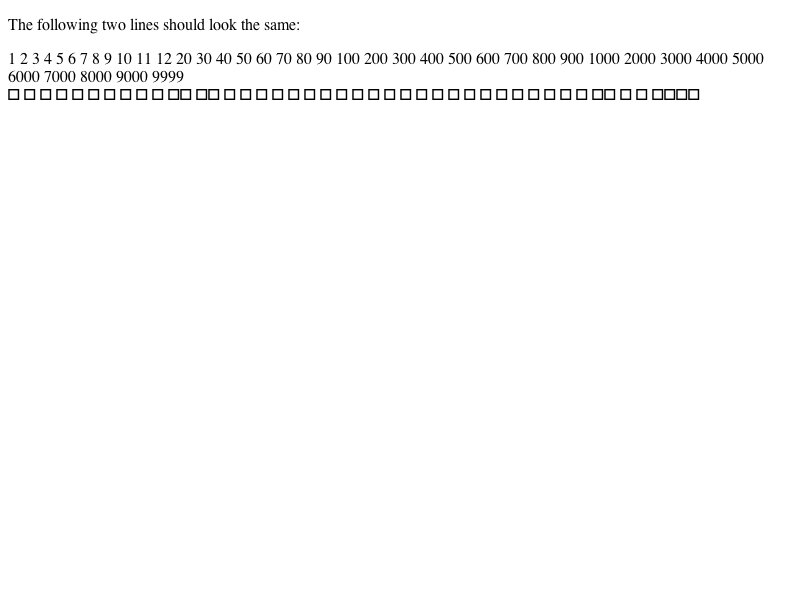
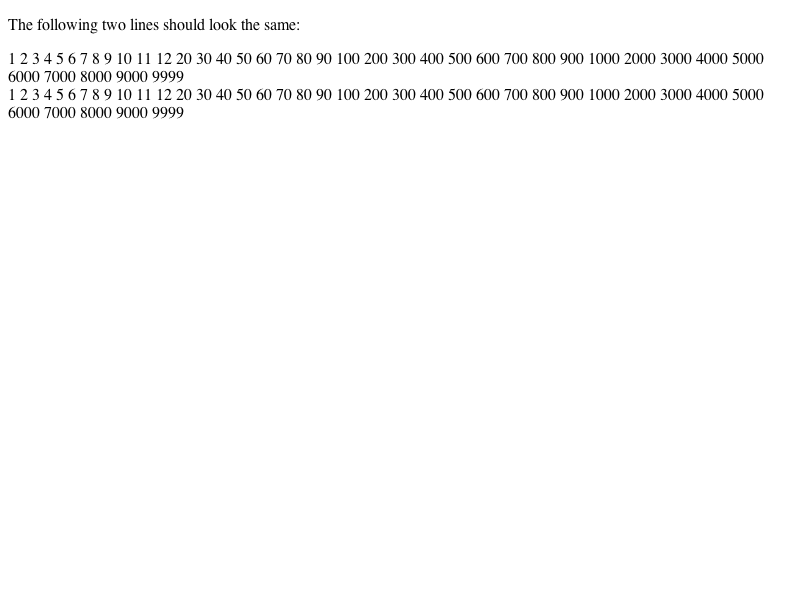
Reviewed by Geoff.
Changing these counters tests because they fail on some people's
        machines. They fail for people who have the Armenian glyphs the
        tests were looking for in the "expected" line. There is no point in
        testing that anyway, since we do not currently support Armenian in
        counters or in list markers.

        * fast/css/counters/counter10-expected.checksum:
        * fast/css/counters/counter10-expected.png:
        * fast/css/counters/counter10-expected.txt:
        * fast/css/counters/counter10.html:
        * fast/css/counters/counters10-expected.checksum:
        * fast/css/counters/counters10-expected.png:
        * fast/css/counters/counters10-expected.txt:
        * fast/css/counters/counters10.html:

Identifier: 14449@main
git-svn-id: https://svn.webkit.org/repository/webkit/trunk@17182 268f45cc-cd09-0410-ab3c-d52691b4dbfc

Changed region(s): [[0.0, 0.15, 0.9688, 0.21]]

diff --git a/LayoutTests/fast/css/counters/counters10.html b/LayoutTests/fast/css/counters/counters10.html
@@ -10,7 +10,7 @@
 
   body, #test span:first-child { counter-reset: c; }
   p, #test span { counter-increment: c; }
-  #test span:before { content: counters(c, ".", armenian); }
+  #test span:before { content: counters(c, "."); }
 
   </style>
  </head>
@@ -60,46 +60,46 @@
    <span style="counter-reset: c 9998"></span>
  </div>
 
- <div>
-   &#x531;.&#x531;
-   &#x531;.&#x532;
-   &#x531;.&#x533;
-   &#x531;.&#x534;
-   &#x531;.&#x535;
-   &#x531;.&#x536;
-   &#x531;.&#x537;
-   &#x531;.&#x538;
-   &#x531;.&#x539;
-   &#x531;.&#x53A;
-   &#x531;.&#x53A;&#x531;
-   &#x531;.&#x53A;&#x532;
-   &#x531;.&#x53B;
-   &#x531;.&#x53C;
-   &#x531;.&#x53D;
-   &#x531;.&#x53E;
-   &#x531;.&#x53F;
-   &#x531;.&#x540;
-   &#x531;.&#x541;
-   &#x531;.&#x542;
-   &#x531;.&#x543;
-   &#x531;.&#x544;
-   &#x531;.&#x545;
-   &#x531;.&#x546;
-   &#x531;.&#x547;
-   &#x531;.&#x548;
-   &#x531;.&#x549;
-   &#x531;.&#x54A;
-   &#x531;.&#x54B;
-   &#x531;.&#x54C;
-   &#x531;.&#x54D;
-   &#x531;.&#x54E;
-   &#x531;.&#x54F;
-   &#x531;.&#x550;
-   &#x531;.&#x551;
-   &#x531;.&#x548;&#x552;
-   &#x531;.&#x553;
-   &#x531;.&#x554;
-   &#x531;.&#x554;&#x54B;&#x542;&#x539;
+<div>
+    1.1
+    1.2
+    1.3
+    1.4
+    1.5
+    1.6
+    1.7
+    1.8
+    1.9
+    1.10
+    1.11
+    1.12
+    1.20
+    1.30
+    1.40
+    1.50
+    1.60
+    1.70
+    1.80
+    1.90
+    1.100
+    1.200
+    1.300
+    1.400
+    1.500
+    1.600
+    1.700
+    1.800
+    1.900
+    1.1000
+    1.2000
+    1.3000
+    1.4000
+    1.5000
+    1.6000
+    1.7000
+    1.8000
+    1.9000
+    1.9999
  </div>
 
  </body>

diff --git a/LayoutTests/fast/css/counters/counter10.html b/LayoutTests/fast/css/counters/counter10.html
@@ -10,7 +10,7 @@
 
   #test { counter-reset: c; }
   #test span { counter-increment: c; }
-  #test span:before { content: counter(c, armenian); }
+  #test span:before { content: counter(c); }
 
   </style>
  </head>
@@ -61,46 +61,46 @@
  </div>
 
  <div>
-   &#x531;
-   &#x532;
-   &#x533;
-   &#x534;
-   &#x535;
-   &#x536;
-   &#x537;
-   &#x538;
-   &#x539;
-   &#x53A;
-   &#x53A;&#x531;
-   &#x53A;&#x532;
-   &#x53B;
-   &#x53C;
-   &#x53D;
-   &#x53E;
-   &#x53F;
-   &#x540;
-   &#x541;
-   &#x542;
-   &#x543;
-   &#x544;
-   &#x545;
-   &#x546;
-   &#x547;
-   &#x548;
-   &#x549;
-   &#x54A;
-   &#x54B;
-   &#x54C;
-   &#x54D;
-   &#x54E;
-   &#x54F;
-   &#x550;
-   &#x551;
-   &#x548;&#x552;
-   &#x553;
-   &#x554;
-   &#x554;&#x54B;&#x542;&#x539;
+    1
+    2
+    3
+    4
+    5
+    6
+    7
+    8
+    9
+    10
+    11
+    12
+    20
+    30
+    40
+    50
+    60
+    70
+    80
+    90
+    100
+    200
+    300
+    400
+    500
+    600
+    700
+    800
+    900
+    1000
+    2000
+    3000
+    4000
+    5000
+    6000
+    7000
+    8000
+    9000
+    9999
  </div>
-
+ 
  </body>
 </html>
